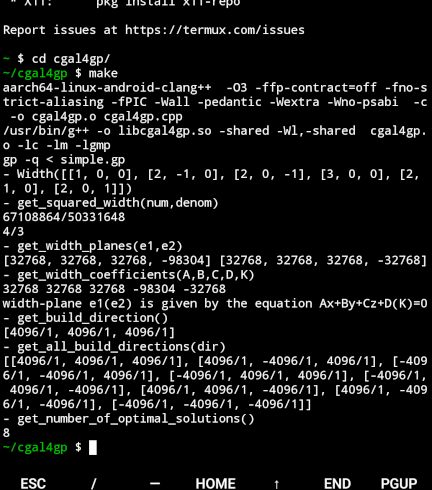
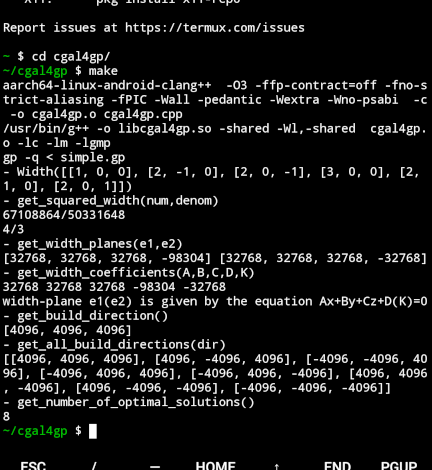
make demo output match the latest code changes

diff --git a/README.md b/README.md
@@ -24,9 +24,9 @@ gp -q < simple.gp
 32768 32768 32768 -98304 -32768
 width-plane e1(e2) is given by the equation Ax+By+Cz+D(K)=0
 - get_build_direction()
-[4096/1, 4096/1, 4096/1]
+[4096, 4096, 4096]
 - get_all_build_directions(dir)
-[[4096/1, 4096/1, 4096/1], [4096/1, -4096/1, 4096/1], [-4096/1, -4096/1, 4096/1], [-4096/1, 4096/1, 4096/1], [-4096/1, 4096/1, -4096/1], [4096/1, 4096/1, -4096/1], [4096/1, -4096/1, -4096/1], [-4096/1, -4096/1, -4096/1]]
+[[4096, 4096, 4096], [4096, -4096, 4096], [-4096, -4096, 4096], [-4096, 4096, 4096], [-4096, 4096, -4096], [4096, 4096, -4096], [4096, -4096, -4096], [-4096, -4096, -4096]]
 - get_number_of_optimal_solutions()
 8
 $ 
